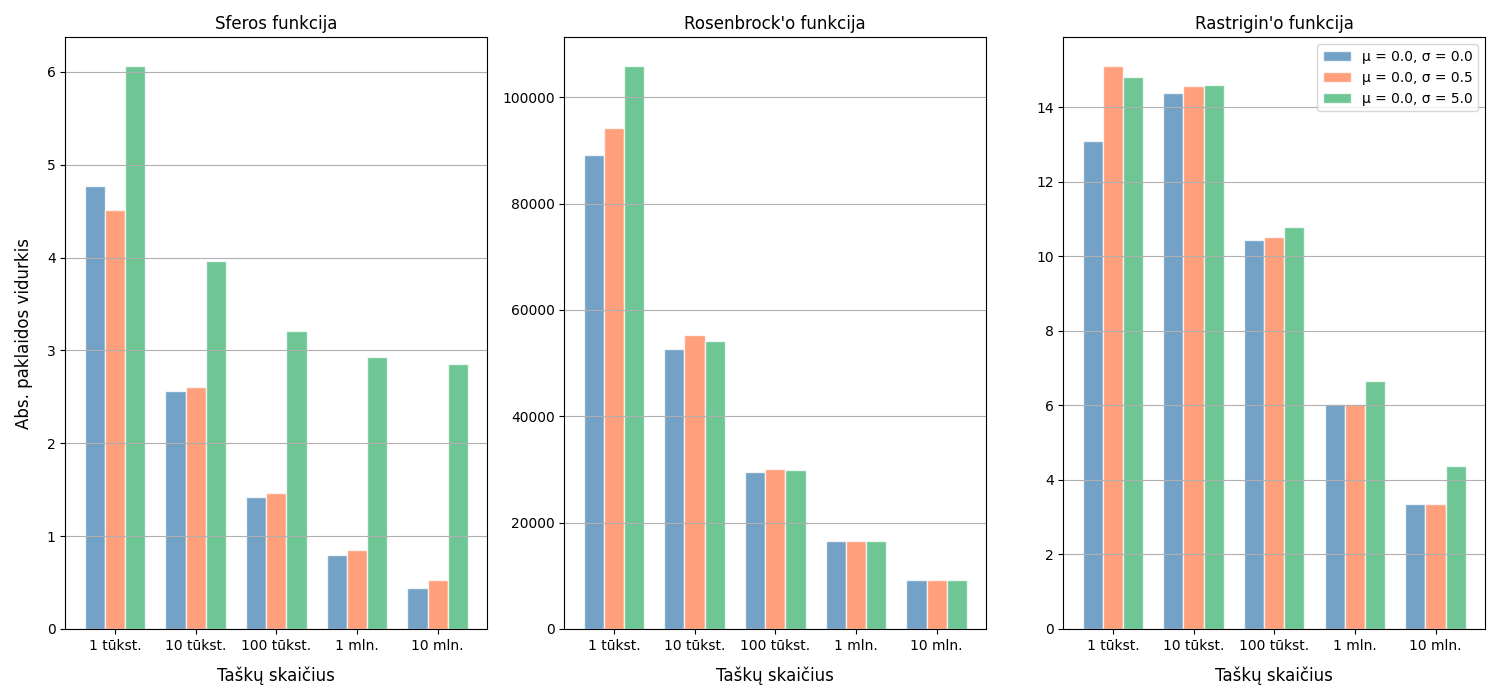
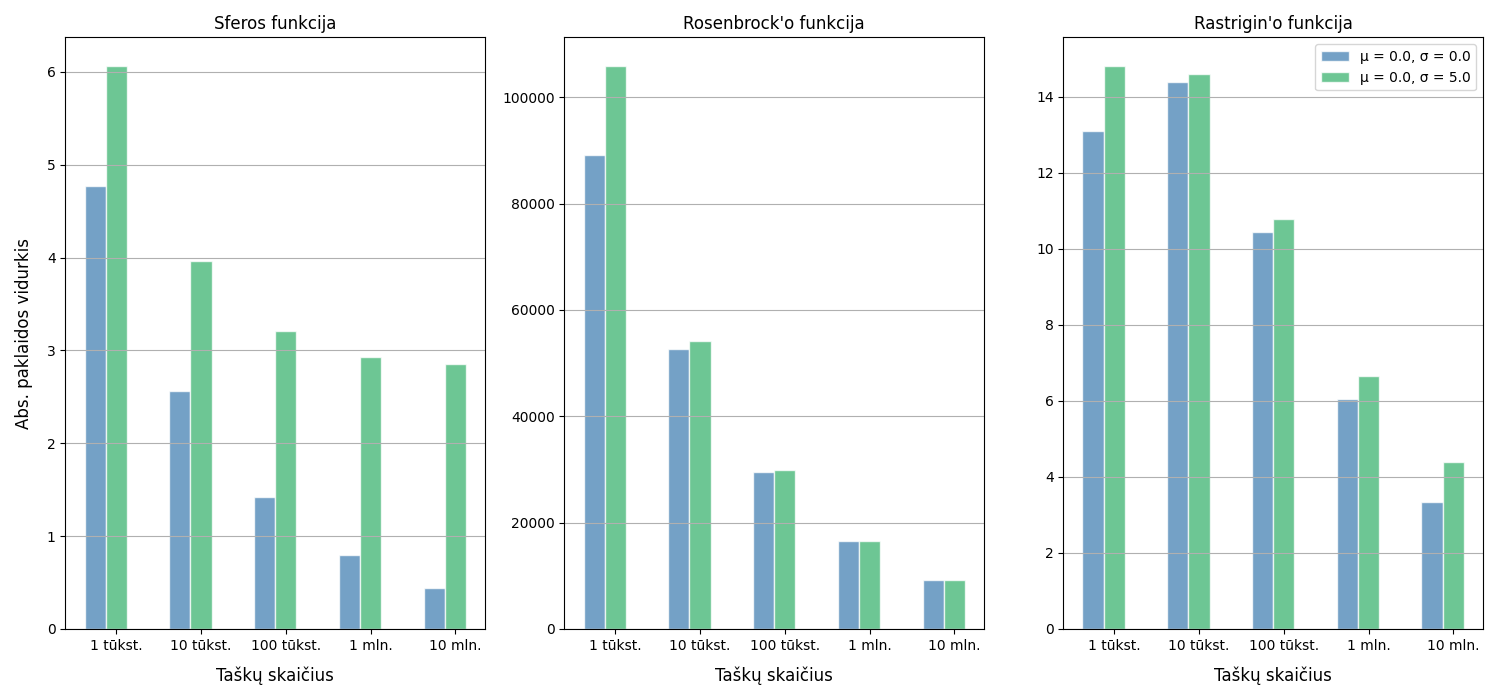
removed data with 0p5 noise

diff --git a/noise_graph.py b/noise_graph.py
@@ -44,8 +44,8 @@ if __name__ == "__main__":
     if args.method != "fnn":
         data_sizes.append("10 mln.")
 
-    noise_levels = [0, .5, 5]
-    colors = ["steelblue", "coral", "mediumseagreen"]
+    noise_levels = [0, 5]
+    colors = ["steelblue", "mediumseagreen"]
 
     # plot graphs
     x = np.arange(len(data_sizes))
